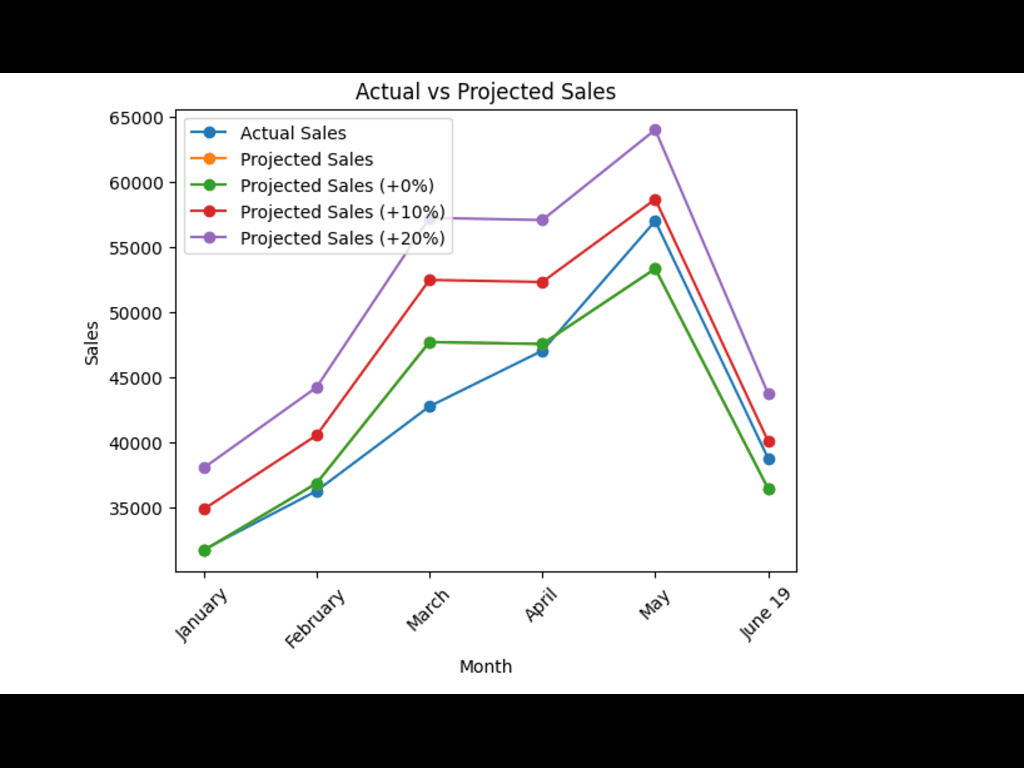
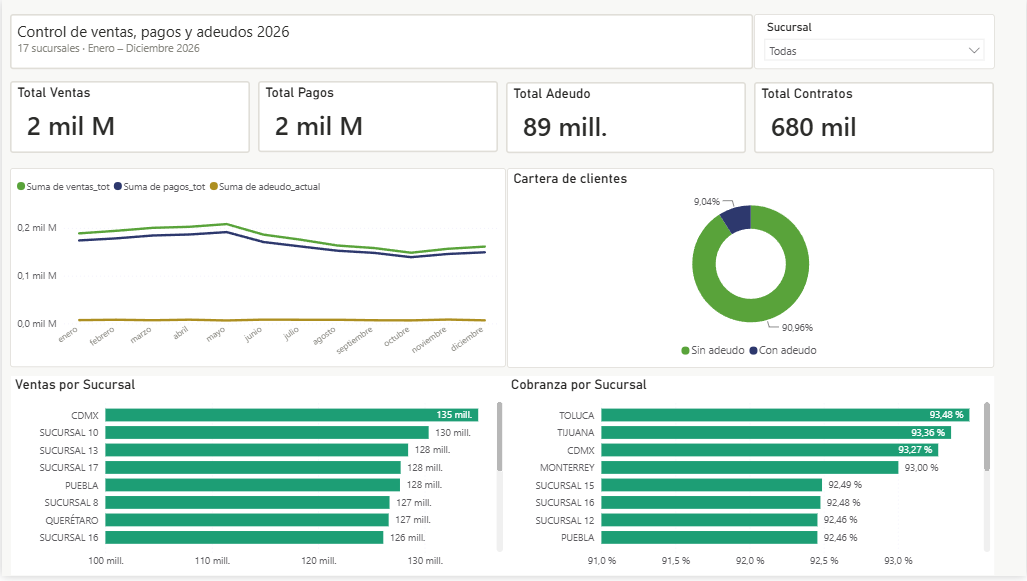
actualizado dashboard power bi

diff --git a/index.html b/index.html
@@ -230,55 +230,79 @@
 
       <div class="container">
 
-        <div class="isotope-layout" data-default-filter="*" data-layout="masonry" data-sort="original-order">
+        <div class="isotope-layout" data-default-filter="*" data-layout="fitRows" data-sort="original-order">
 
           <ul class="portfolio-filters isotope-filters" data-aos="fade-up" data-aos-delay="100">
             <li data-filter="*" class="filter-active">Todos</li>
+            <li data-filter=".notebook">Notebooks (.ipynb)</li>
+            <li data-filter=".script">Scripts / Apps Python</li>
+            <li data-filter=".webapp">Web Apps</li>
+            <li data-filter=".powerbi">Power BI</li>
           </ul><!-- End Portfolio Filters -->
 
           <div class="row gy-4 isotope-container" data-aos="fade-up" data-aos-delay="200">
 
-            <div class="col-lg-4 col-md-6 portfolio-item isotope-item filter-app">
+            <div class="col-lg-4 col-md-6 portfolio-item isotope-item filter-app powerbi">
               <div class="portfolio-content h-100">
                 <img src="assets/img/portfolio/sales.png" class="img-fluid" alt="">
                 <div class="portfolio-info">
+                  <h4>Análisis en Power BI</h4>
+                  <p>Control de ventas, pagos y adeudos 2026</p>
+                  <a href="assets/img/portfolio/sales.png" title="Desarrollo de una solución de Inteligencia de Negocios (BI) para el monitoreo en tiempo real de indicadores clave de desempeño (KPIs) comerciales. El proyecto se centra en la transformación de datos sintéticos en un modelo relacional eficiente, orientado a la toma de decisiones estratégicas mediante una visualización clara y profesional." data-gallery="portfolio-gallery-app" class="glightbox preview-link"><i class="bi bi-zoom-in"></i></a>
+                  <a href="https://app.powerbi.com/view?r=eyJrIjoiZjEwNzc5MDMtYWNmNi00NjU0LWE1OTQtZWY4ZjAzNGYxNGU2IiwidCI6ImVkMTQ0ODRkLWNlNzYtNGQ0NC04ZDA0LWRiNzY0YjY4ZWRhZiIsImMiOjR9" class="details-link" target="_blank"><i class="bi bi-link-45deg"></i></a>
+                </div>
+              </div>
+            </div><!-- End Portfolio Item -->
+
+            <div class="col-lg-4 col-md-6 portfolio-item isotope-item filter-product powerbi">
+              <div class="portfolio-content h-100">
+                <img src="assets/img/portfolio/GTC.png" class="img-fluid" alt="">
+                <div class="portfolio-info">
+                  <h4>Global Talent Connections</h4>
+                  <p>Evaluación de ingresos basada en los productos ofrecidos por Global Talent Connections, analizando ingresos y rentabilidad por categoría de servicio.</p>
+                  <a href="assets/img/portfolio/GTC.png" title="Este proyecto evalúa las ganancias por oferta de productos dentro de Global Talent Connections, destacando la generación de ingresos para cada línea de servicio." data-gallery="portfolio-gallery-product" class="glightbox preview-link"><i class="bi bi-zoom-in"></i></a>
+                  <a href="https://app.powerbi.com/view?r=eyJrIjoiMzZjMWY0NDMtYWQxYy00NTgxLWFhMTQtYjY0ODI3NGE3MzZkIiwidCI6ImVkMTQ0ODRkLWNlNzYtNGQ0NC04ZDA0LWRiNzY0YjY4ZWRhZiIsImMiOjR9" class="details-link" target="_blank"><i class="bi bi-link-45deg"></i></a>   
+                </div>
+              </div>
+            </div><!-- End Portfolio Item -->
+
+            <div class="col-lg-4 col-md-6 portfolio-item isotope-item filter-app notebook">
+              <div class="portfolio-content h-100">
+                <img src="assets/img/portfolio/prediction.png" class="img-fluid" alt="">
+                <div class="portfolio-info">
                   <h4>Análisis de rendimiento de ventas y proyección</h4>
                   <p>Este proyecto analiza el rendimiento de ventas mensual comparando datos reales con escenarios de ventas proyectadas.</p>
-                  <a href="assets/img/portfolio/sales.png" title="El objetivo del análisis es evaluar cómo diferentes supuestos de crecimiento impactan los ingresos a lo largo del tiempo, identificar periodos de máximo rendimiento y apoyar la toma de decisiones basada en datos para la planificación de ventas futura. Al contrastar resultados reales con proyecciones, el proyecto demuestra cómo el análisis de escenarios puede utilizarse para anticipar resultados y gestionar expectativas empresariales." data-gallery="portfolio-gallery-app" class="glightbox preview-link"><i class="bi bi-zoom-in"></i></a>
+                  <a href="assets/img/portfolio/prediction.png" title="El objetivo del análisis es evaluar cómo diferentes supuestos de crecimiento impactan los ingresos a lo largo del tiempo, identificar periodos de máximo rendimiento y apoyar la toma de decisiones basada en datos para la planificación de ventas futura. Al contrastar resultados reales con proyecciones, el proyecto demuestra cómo el análisis de escenarios puede utilizarse para anticipar resultados y gestionar expectativas empresariales." data-gallery="portfolio-gallery-app" class="glightbox preview-link"><i class="bi bi-zoom-in"></i></a>
                   <a href="https://github.com/FernandaCader/SQL-and-Yerba-Analytics/blob/main/Sales%20Analysis%20and%20Projection%20Impact%20of%20Advertising%20Budget%20on%20Business%20Growth.ipynb" class="details-link" target="_blank"><i class="bi bi-link-45deg"></i></a>
                 </div>
               </div>
             </div><!-- End Portfolio Item -->
 
-            <div class="col-lg-4 col-md-6 portfolio-item isotope-item filter-product">
+            <div class="col-lg-4 col-md-6 portfolio-item isotope-item filter-product notebook">
               <div class="portfolio-content h-100">
                 <img src="assets/img/portfolio/tesla.jpg" class="img-fluid" alt="">
                 <div class="portfolio-info">
                   <h4>Análisis de tendencia del precio de acciones de Tesla</h4>
                   <p>Este proyecto analiza los precios de cierre históricos de las acciones de Tesla para identificar tendencias, volatilidad y comportamiento general del mercado.</p>
-                  <a href="assets/img/portfolio/tesla.jpg" title="El análisis se centra en comprender la dinámica del desempeño bursátil y cómo los precios evolucionan en respuesta a las condiciones del mercado. Este tipo de visualización de series de tiempo se utiliza comúnmente en análisis financiero para respaldar ideas de inversión, identificación de tendencias y análisis exploratorio de datos del mercado.
-
-Al combinar datos financieros con una narrativa visual efectiva, el proyecto demuestra la capacidad de transformar datos de mercado crudos en insights interpretables." data-gallery="portfolio-gallery-product" class="glightbox preview-link"><i class="bi bi-zoom-in"></i></a>
+                  <a href="assets/img/portfolio/tesla.jpg" title="El análisis se centra en comprender la dinámica del desempeño bursátil y cómo los precios evolucionan en respuesta a las condiciones del mercado. Este tipo de visualización de series de tiempo se utiliza comúnmente en análisis financiero para respaldar ideas de inversión, identificación de tendencias y análisis exploratorio de datos del mercado. Al combinar datos financieros con una narrativa visual efectiva, el proyecto demuestra la capacidad de transformar datos de mercado crudos en insights interpretables." data-gallery="portfolio-gallery-product" class="glightbox preview-link"><i class="bi bi-zoom-in"></i></a>
                   <a href="https://colab.research.google.com/gist/FernandaCader/1af24830f4191e77871c869864d8dfbb/forecasting-tesla-30-days.ipynb" class="details-link" target="_blank"><i class="bi bi-link-45deg"></i></a>
                 </div>
               </div>
             </div><!-- End Portfolio Item -->
 
-            <div class="col-lg-4 col-md-6 portfolio-item isotope-item filter-branding">
+            <div class="col-lg-4 col-md-6 portfolio-item isotope-item filter-branding script desktop">
               <div class="portfolio-content h-100">
                 <img src="assets/img/portfolio/bbdd.png" class="img-fluid" alt="">
                 <div class="portfolio-info">
                   <h4>Sistema de gestión de empleados con integración de base de datos</h4>
                   <p>Este proyecto es un sistema de gestión de empleados de escritorio diseñado para realizar operaciones CRUD completas en registros de empleados.</p>
-                  <a href="assets/img/portfolio/bbdd.png" title="El sistema muestra resultados de consultas en tiempo real y admite la exportación de datos de empleados a formatos externos como PDF, permitiendo reportes básicos y portabilidad de datos. Este proyecto demuestra conceptos prácticos de gestión de bases de datos, manejo estructurado de datos e interacción de usuario a través de una interfaz gráfica.
-
-Refleja un caso de uso administrativo real, combinando lógica de base de datos con una interfaz amigable para gestionar datos organizacionales de manera eficiente." data-gallery="portfolio-gallery-branding" class="glightbox preview-link"><i class="bi bi-zoom-in"></i></a>
+                  <a href="assets/img/portfolio/bbdd.png" title="El sistema muestra resultados de consultas en tiempo real y admite la exportación de datos de empleados a formatos externos como PDF, permitiendo reportes básicos y portabilidad de datos. Este proyecto demuestra conceptos prácticos de gestión de bases de datos, manejo estructurado de datos e interacción de usuario a través de una interfaz gráfica.Refleja un caso de uso administrativo real, combinando lógica de base de datos con una interfaz amigable para gestionar datos organizacionales de manera eficiente." data-gallery="portfolio-gallery-branding" class="glightbox preview-link"><i class="bi bi-zoom-in"></i></a>
                   <a href="https://github.com/FernandaCader/Employee-Records/" class="details-link" target="_blank"><i class="bi bi-link-45deg"></i></a>
                 </div>
               </div>
             </div><!-- End Portfolio Item -->
 
-            <div class="col-lg-4 col-md-6 portfolio-item isotope-item filter-books">
+            <div class="col-lg-4 col-md-6 portfolio-item isotope-item filter-books webapp">
               <div class="portfolio-content h-100">
                 <img src="assets/img/portfolio/hablame.png" class="img-fluid" alt="">
                 <div class="portfolio-info">
@@ -287,41 +311,6 @@ Refleja un caso de uso administrativo real, combinando lógica de base de datos 
                   <a href="assets/img/portfolio/hablame.png" title="Háblame Texto es una aplicación web desarrollada para convertir audio en texto usando reconocimiento de voz. Está diseñada para apoyar a usuarios con dificultades auditivas, necesidades de transcripción o requerimientos de accesibilidad digital. La aplicación se ejecuta directamente en un navegador web sin requerir instalación y está disponible públicamente en Hugging Face Spaces.
 Tecnologías utilizadas: Python, Gradio, Whisper (modelo de OpenAI), Hugging Face Spaces." data-gallery="portfolio-gallery-book" class="glightbox preview-link"><i class="bi bi-zoom-in"></i></a>
                   <a href="https://huggingface.co/spaces/Feefer96/hablame-texto" class="details-link" target="_blank"><i class="bi bi-link-45deg"></i></a>
-                </div>
-              </div>
-            </div><!-- End Portfolio Item -->
-
-            <div class="col-lg-4 col-md-6 portfolio-item isotope-item filter-app">
-              <div class="portfolio-content h-100">
-                <img src="assets/img/portfolio/powerbi.png" class="img-fluid" alt="">
-                <div class="portfolio-info">
-                  <h4>Análisis en Power BI</h4>
-                  <p>Dashboard de rendimiento financiero y cuentas por cobrar</p>
-                  <a href="assets/img/portfolio/powerbi.png" title="Monitorea la salud financiera del negocio al seguir Ventas vs. Cobros, analizar niveles de deuda e identificar tendencias de rendimiento geográfico. Sirve como herramienta de toma de decisiones para departamentos de crédito y cobranzas." data-gallery="portfolio-gallery-app" class="glightbox preview-link"><i class="bi bi-zoom-in"></i></a>
-                  <a href="https://app.powerbi.com/links/NBeLokT4Mv?ctid=ed14484d-ce76-4d44-8d04-db764b68edaf&pbi_source=linkShare&bookmarkGuid=d6a7ae0a-039a-4bb2-adfe-40d745850bb1" class="details-link" target="_blank"><i class="bi bi-link-45deg"></i></a>
-                </div>
-              </div>
-            </div><!-- End Portfolio Item -->
-
-            <div class="col-lg-4 col-md-6 portfolio-item isotope-item filter-product">
-              <div class="portfolio-content h-100">
-                <img src="assets/img/portfolio/heart.png" class="img-fluid" alt="">
-                <div class="portfolio-info">
-                  <h4>Análisis de distribución de enfermedades cardíacas</h4>
-                  <p>Análisis exploratorio de la distribución de enfermedades cardíacas usando Python y pandas, visualizando métricas clave y patrones en el conjunto de datos.</p>
-                  <a href="assets/img/portfolio/heart.png" title="Este proyecto explora la distribución de resultados de enfermedades cardíacas dentro de un conjunto de datos clínicos. La visualización presenta la frecuencia de pacientes en diferentes categorías objetivo, permitiendo una comprensión clara del desequilibrio de clases y los patrones de prevalencia relacionados con condiciones cardíacas." data-gallery="portfolio-gallery-product" class="glightbox preview-link"><i class="bi bi-zoom-in"></i></a>
-                  <a href="https://github.com/FernandaCader/SQL-and-Yerba-Analytics/blob/main/Prediction%20of%20Heart%20Diseases%20Using%20Machine%20Learning.ipynb" class="details-link" target="_blank"><i class="bi bi-link-45deg"></i></a>   
-                </div>
-              </div>
-            </div><!-- End Portfolio Item -->
-            <div class="col-lg-4 col-md-6 portfolio-item isotope-item filter-product">
-              <div class="portfolio-content h-100">
-                <img src="assets/img/portfolio/GTC.png" class="img-fluid" alt="">
-                <div class="portfolio-info">
-                  <h4>Global Talent Connections</h4>
-                  <p>Evaluación de ingresos basada en los productos ofrecidos por Global Talent Connections, analizando ingresos y rentabilidad por categoría de servicio.</p>
-                  <a href="assets/img/portfolio/GTC.png" title="Este proyecto evalúa las ganancias por oferta de productos dentro de Global Talent Connections, destacando la generación de ingresos para cada línea de servicio." data-gallery="portfolio-gallery-product" class="glightbox preview-link"><i class="bi bi-zoom-in"></i></a>
-                  <a href="https://app.powerbi.com/view?r=eyJrIjoiMzZjMWY0NDMtYWQxYy00NTgxLWFhMTQtYjY0ODI3NGE3MzZkIiwidCI6ImVkMTQ0ODRkLWNlNzYtNGQ0NC04ZDA0LWRiNzY0YjY4ZWRhZiIsImMiOjR9" class="details-link" target="_blank"><i class="bi bi-link-45deg"></i></a>   
                 </div>
               </div>
             </div><!-- End Portfolio Item -->

diff --git a/assets/css/main.css b/assets/css/main.css
@@ -805,6 +805,19 @@ section,
   color: var(--accent-color);
 }
 
+/* Project badge for quick tech/type labels */
+.project-badge {
+  display: inline-block;
+  margin-top: 8px;
+  margin-left: 6px;
+  padding: 4px 8px;
+  font-size: 12px;
+  font-weight: 600;
+  background: var(--accent-color);
+  color: var(--contrast-color);
+  border-radius: 999px;
+}
+
 .portfolio .portfolio-filters li:first-child {
   margin-left: 0;
 }
@@ -823,9 +836,14 @@ section,
 .portfolio .portfolio-content {
   position: relative;
   overflow: hidden;
+  min-height: 280px;
 }
 
 .portfolio .portfolio-content img {
+  width: 100%;
+  height: 100%;
+  object-fit: cover;
+  display: block;
   transition: 0.3s;
 }
 
@@ -849,38 +867,38 @@ section,
 }
 
 .portfolio .portfolio-content .portfolio-info p {
-  position: absolute;
-  bottom: 10px;
-  text-align: center;
-  display: inline-block;
-  left: 0;
-  right: 0;
-  font-size: 16px;
-  font-weight: 600;
-  color: rgba(255, 255, 255, 0.8);
-}
+    position: absolute;
+    bottom: 10px;
+    text-align: center;
+    display: inline-block;
+    left: 0;
+    right: 0;
+    font-size: 16px;
+    font-weight: 600;
+    color: rgba(255, 255, 255, 0.8);
+  }
 
-.portfolio .portfolio-content .portfolio-info .preview-link,
-.portfolio .portfolio-content .portfolio-info .details-link {
-  position: absolute;
-  left: calc(50% - 40px);
-  font-size: 26px;
-  top: calc(50% - 14px);
-  color: #fff;
-  transition: 0.3s;
-  line-height: 1.2;
-}
+  .portfolio .portfolio-content .portfolio-info .preview-link,
+  .portfolio .portfolio-content .portfolio-info .details-link {
+    position: absolute;
+    left: calc(50% - 40px);
+    font-size: 26px;
+    top: calc(50% - 14px);
+    color: #fff;
+    transition: 0.3s;
+    line-height: 1.2;
+  }
 
-.portfolio .portfolio-content .portfolio-info .preview-link:hover,
-.portfolio .portfolio-content .portfolio-info .details-link:hover {
-  color: var(--accent-color);
-}
+  .portfolio .portfolio-content .portfolio-info .preview-link:hover,
+  .portfolio .portfolio-content .portfolio-info .details-link:hover {
+    color: var(--accent-color);
+  }
 
-.portfolio .portfolio-content .portfolio-info .details-link {
-  left: 50%;
-  font-size: 34px;
-  line-height: 0;
-}
+  .portfolio .portfolio-content .portfolio-info .details-link {
+    left: 50%;
+    font-size: 34px;
+    line-height: 0;
+  }
 
 .portfolio .portfolio-content:hover .portfolio-info {
   opacity: 1;

diff --git a/assets/js/main.js b/assets/js/main.js
@@ -150,14 +150,29 @@
         filter: filter,
         sortBy: sort
       });
+      // If default filter is 'all' (*), ensure Power BI items appear first
+      if (filter === '*') {
+        const container = isotopeItem.querySelector('.isotope-container');
+        const powerbiItems = Array.from(container.querySelectorAll('.isotope-item.powerbi'));
+        powerbiItems.reverse().forEach(item => container.insertBefore(item, container.firstChild));
+        // re-layout after DOM changes
+        initIsotope.arrange({ filter: '*' });
+      }
     });
 
     isotopeItem.querySelectorAll('.isotope-filters li').forEach(function(filters) {
       filters.addEventListener('click', function() {
         isotopeItem.querySelector('.isotope-filters .filter-active').classList.remove('filter-active');
         this.classList.add('filter-active');
+        const selectedFilter = this.getAttribute('data-filter');
+        // If 'Todos' selected, move Power BI items to top before arranging
+        if (selectedFilter === '*') {
+          const container = isotopeItem.querySelector('.isotope-container');
+          const powerbiItems = Array.from(container.querySelectorAll('.isotope-item.powerbi'));
+          powerbiItems.reverse().forEach(item => container.insertBefore(item, container.firstChild));
+        }
         initIsotope.arrange({
-          filter: this.getAttribute('data-filter')
+          filter: selectedFilter
         });
         if (typeof aosInit === 'function') {
           aosInit();